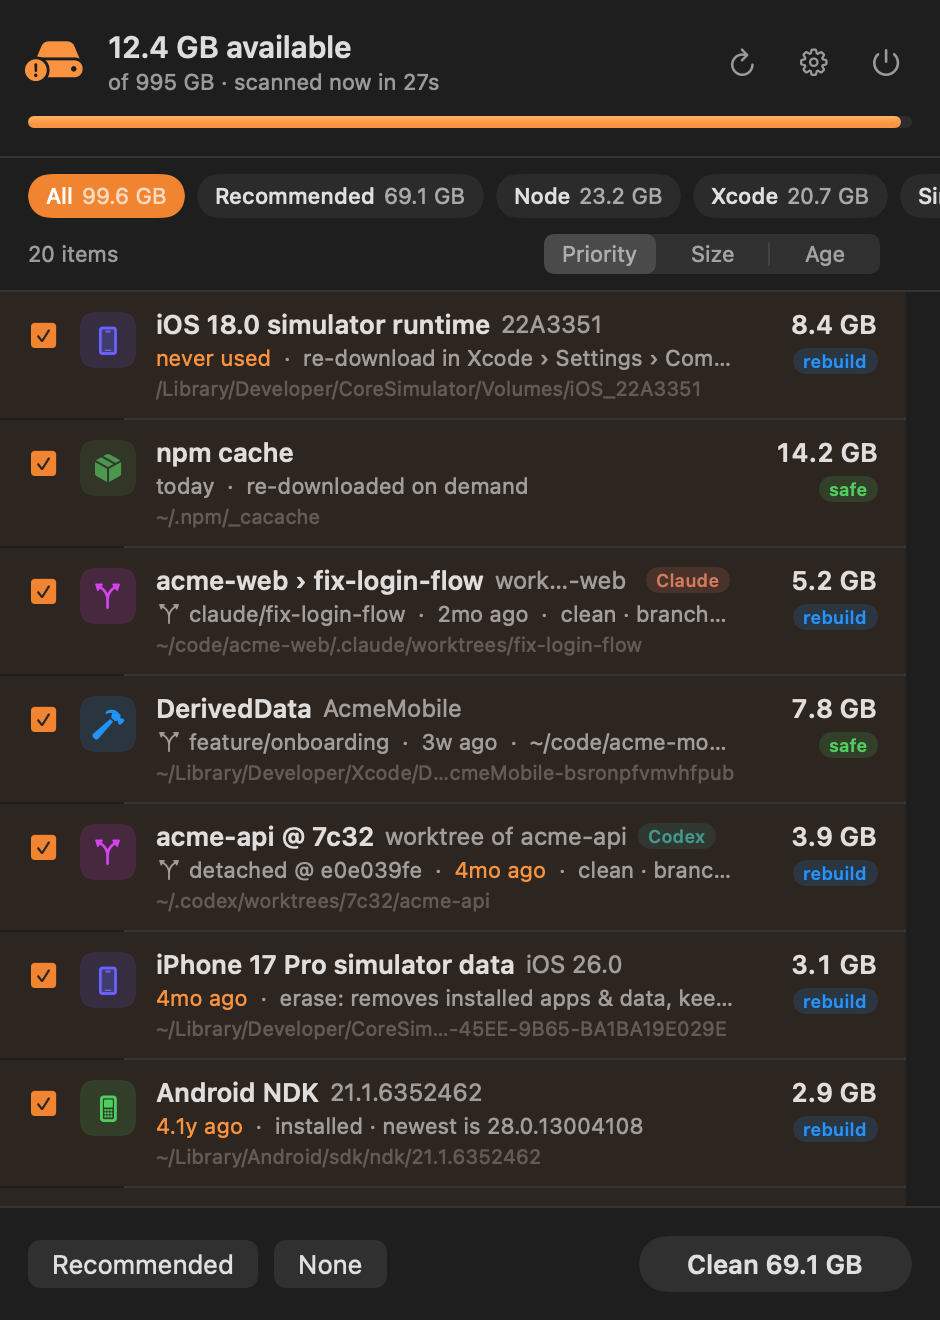
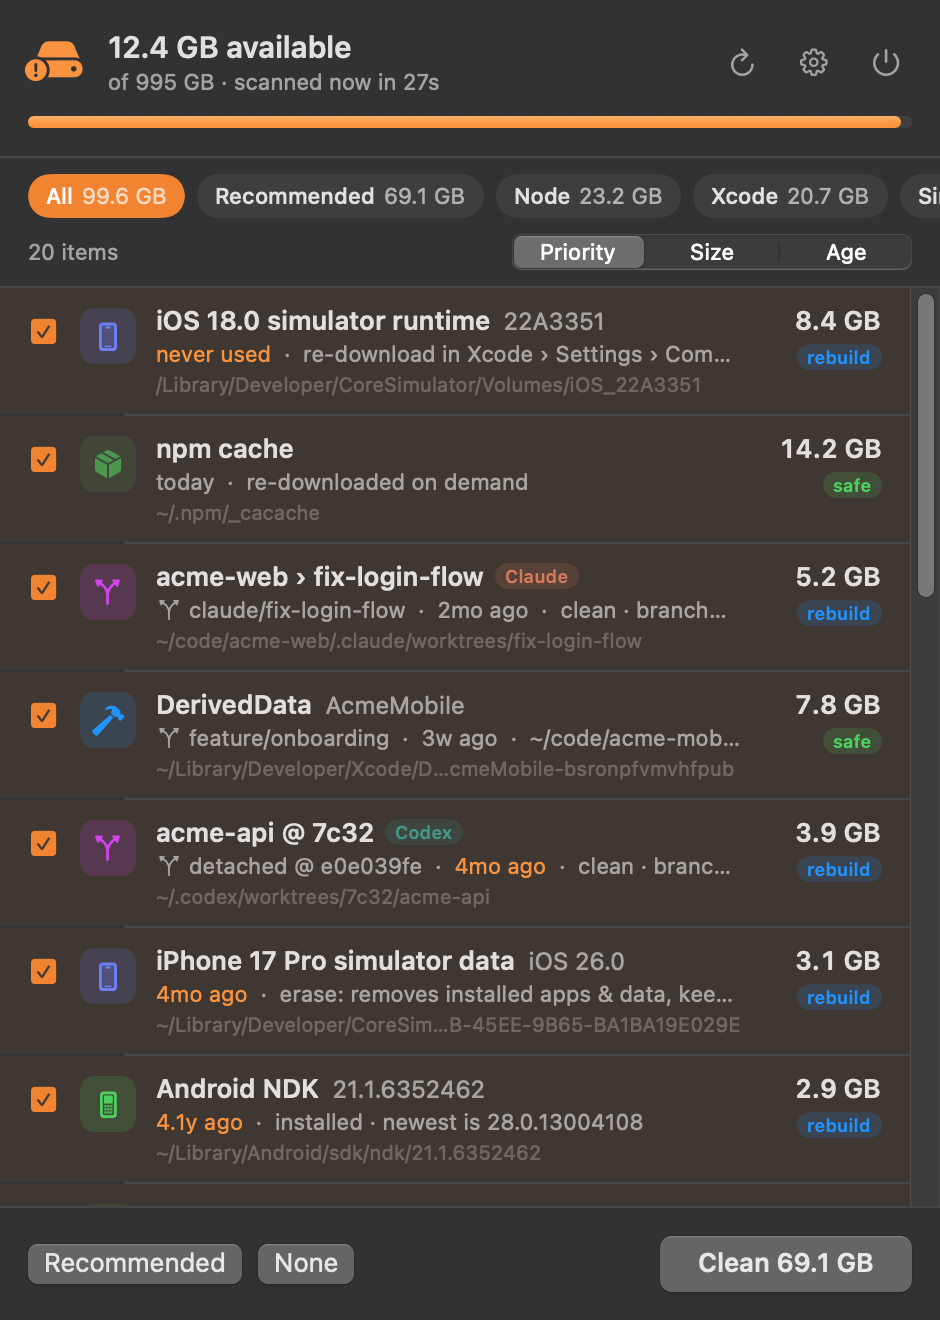
Show free space as text in the menu bar and fix squeezed badges
- The menu bar now shows only the free space, e.g. "117GB", without the
  drive icon. It turns orange when space is low and red when critical
  (as an attributed title, since contentTintColor doesn't tint a status
  button's text). The "show free space next to the icon" setting is gone.
- Badges never shrink: next to a long title a squeezed "Claude" badge
  wrapped one letter per line and blew up the row's height.
- Title and project label render as one text that truncates at the end;
  worktree rows drop the "worktree of <repo>" label their title repeats.
- Version 0.1.1

diff --git a/Sources/SpaceGuard/AppDelegate.swift b/Sources/SpaceGuard/AppDelegate.swift
@@ -28,8 +28,7 @@ final class AppDelegate: NSObject, NSApplicationDelegate, UNUserNotificationCent
             button.target = self
             button.action = #selector(togglePopover(_:))
             button.sendAction(on: [.leftMouseUp, .rightMouseUp])
-            button.imagePosition = .imageLeading
-            button.font = NSFont.monospacedDigitSystemFont(ofSize: 12, weight: .medium)
+            button.font = NSFont.monospacedDigitSystemFont(ofSize: NSFont.menuBarFont(ofSize: 0).pointSize, weight: .regular)
         }
 
         popover.behavior = .transient
@@ -38,7 +37,7 @@ final class AppDelegate: NSObject, NSApplicationDelegate, UNUserNotificationCent
         popover.contentViewController = NSHostingController(rootView: PanelView(store: store, settings: store.settings))
 
         store.$available
-            .combineLatest(store.settings.$showFreeInMenuBar, store.settings.$lowSpaceGB)
+            .combineLatest(store.settings.$lowSpaceGB)
             .receive(on: RunLoop.main)
             .sink { [weak self] _ in self?.updateButton() }
             .store(in: &bag)
@@ -109,17 +108,22 @@ final class AppDelegate: NSObject, NSApplicationDelegate, UNUserNotificationCent
         }
     }
 
+    /// The menu bar shows only the free space ("117GB"): orange when it's low, red when it's critical.
     private func updateButton() {
         guard let button = statusItem?.button else { return }
-        let level = store.level
-        let symbol = level == .ok ? "internaldrive" : "externaldrive.badge.exclamationmark"
-        let image = NSImage(systemSymbolName: symbol, accessibilityDescription: "SpaceGuard")
-            ?? NSImage(systemSymbolName: "internaldrive", accessibilityDescription: "SpaceGuard")
-        image?.isTemplate = true
-        button.image = image
-        button.title = store.settings.showFreeInMenuBar && store.total > 0 ? " " + Fmt.compact(store.available) : ""
-        button.contentTintColor = level == .critical ? .systemRed : level == .low ? .systemOrange : nil
+        let text = store.total > 0 ? Fmt.compact(store.available) : "SpaceGuard"
+        switch store.level {
+        case .ok:
+            button.title = text   // the menu bar's own text color, which follows light and dark menu bars
+        case .low, .critical:
+            // contentTintColor tints a status button's image but not its title, so color the text itself.
+            let color: NSColor = store.level == .critical ? .systemRed : .systemOrange
+            button.attributedTitle = NSAttributedString(string: text, attributes: [
+                .font: button.font ?? NSFont.menuBarFont(ofSize: 0), .foregroundColor: color,
+            ])
+        }
         button.toolTip = "SpaceGuard: \(Fmt.bytes(store.available)) available"
+        button.setAccessibilityLabel("SpaceGuard, \(Fmt.bytes(store.available)) available")
     }
 
     @objc private func togglePopover(_ sender: Any?) {

diff --git a/Sources/SpaceGuard/Views.swift b/Sources/SpaceGuard/Views.swift
@@ -397,10 +397,12 @@ struct Tag: View {
     var body: some View {
         Text(text)
             .font(.system(size: 9, weight: .semibold))
+            .lineLimit(1)
             .padding(.horizontal, 5)
             .padding(.vertical, 1)
             .background(Capsule().fill(color.opacity(0.16)))
             .foregroundStyle(color)
+            .fixedSize()   // never squeezed: next to a long title it used to wrap one letter per line
     }
 }
 
@@ -427,17 +429,8 @@ struct ItemRow: View {
             .padding(.top, 2)
             VStack(alignment: .leading, spacing: 2) {
                 HStack(spacing: 5) {
-                    Text(item.title)
-                        .font(.system(size: 13, weight: .semibold))
+                    titleLine
                         .lineLimit(1)
-                        .layoutPriority(1)
-                    if let project = item.project {
-                        Text(project)
-                            .font(.system(size: 12))
-                            .foregroundStyle(.secondary)
-                            .lineLimit(1)
-                            .truncationMode(.middle)
-                    }
                     if let agent = item.agent { Tag(text: agent.label, color: agent.tint) }
                     if item.inUse { Tag(text: "in use", color: .blue) }
                 }
@@ -466,6 +459,14 @@ struct ItemRow: View {
         .contentShape(Rectangle())
         .onTapGesture(perform: toggle)
         .onHover { hover = $0 }
+    }
+
+    /// Title and project as one text, so a long title truncates as a whole instead of crushing the project label.
+    private var titleLine: Text {
+        let title = Text(item.title).font(.system(size: 13, weight: .semibold))
+        // A worktree's title already names its repo; "worktree of <repo>" would only repeat it.
+        guard let project = item.project, item.category != .worktree else { return title }
+        return title + Text("  " + project).font(.system(size: 12)).foregroundColor(.secondary)
     }
 
     private var meta: Text {
@@ -504,8 +505,7 @@ struct SettingsView: View {
                 Toggle("Send a notification", isOn: $settings.notify)
                 Toggle("Scan automatically when space runs low", isOn: $settings.autoScanWhenLow)
             }
-            Section("Menu bar") {
-                Toggle("Show free space next to the icon", isOn: $settings.showFreeInMenuBar)
+            Section("General") {
                 Toggle("Launch at login", isOn: $launchAtLogin)
                     .onChange(of: launchAtLogin) { _, on in
                         do {

diff --git a/Sources/SpaceGuard/Store.swift b/Sources/SpaceGuard/Store.swift
@@ -59,7 +59,6 @@ final class Settings: ObservableObject {
     private let defaults = UserDefaults.standard
 
     @Published var lowSpaceGB: Double { didSet { defaults.set(lowSpaceGB, forKey: "lowSpaceGB") } }
-    @Published var showFreeInMenuBar: Bool { didSet { defaults.set(showFreeInMenuBar, forKey: "showFreeInMenuBar") } }
     @Published var minItemMB: Int { didSet { defaults.set(minItemMB, forKey: "minItemMB") } }
     @Published var autoScanWhenLow: Bool { didSet { defaults.set(autoScanWhenLow, forKey: "autoScanWhenLow") } }
     @Published var notify: Bool { didSet { defaults.set(notify, forKey: "notify") } }
@@ -67,9 +66,8 @@ final class Settings: ObservableObject {
     @Published var ignored: Set<String> { didSet { defaults.set(Array(ignored), forKey: "ignored") } }
 
     init() {
-        defaults.register(defaults: ["lowSpaceGB": 20.0, "showFreeInMenuBar": true, "minItemMB": 50, "autoScanWhenLow": true, "notify": true])
+        defaults.register(defaults: ["lowSpaceGB": 20.0, "minItemMB": 50, "autoScanWhenLow": true, "notify": true])
         lowSpaceGB = defaults.double(forKey: "lowSpaceGB")
-        showFreeInMenuBar = defaults.bool(forKey: "showFreeInMenuBar")
         minItemMB = defaults.integer(forKey: "minItemMB")
         autoScanWhenLow = defaults.bool(forKey: "autoScanWhenLow")
         notify = defaults.bool(forKey: "notify")

diff --git a/Sources/SpaceGuard/Model.swift b/Sources/SpaceGuard/Model.swift
@@ -188,12 +188,13 @@ enum Fmt {
         return "\(b) B"
     }
 
-    /// Menu bar text: "3.3G", "87G".
+    /// Menu bar text: "117GB", "9.5GB", "640MB", "1.2TB".
     static func compact(_ b: Int64) -> String {
-        let gb = Double(b) / 1e9
-        if gb >= 1000 { return String(format: "%.1fT", gb / 1000) }
-        if gb >= 10 { return String(format: "%.0fG", gb) }
-        return String(format: "%.1fG", gb)
+        let d = Double(b)
+        if d >= 1e12 { return String(format: "%.1fTB", d / 1e12) }
+        if d >= 1e10 { return String(format: "%.0fGB", d / 1e9) }
+        if d >= 1e9 { return String(format: "%.1fGB", d / 1e9) }
+        return String(format: "%.0fMB", d / 1e6)
     }
 
     static func age(_ item: CleanItem) -> String {

diff --git a/README.md b/README.md
@@ -27,9 +27,9 @@ how long it has sat untouched. The list is ranked so the big, stale, safe-to-del
 
 ## Features
 
-- **Watches free space from the menu bar.** The icon shows how much space is left and turns orange,
-  then red, as the disk fills. When space drops below your threshold, you get a notification saying
-  how much can be reclaimed.
+- **Watches free space from the menu bar.** The menu bar shows how much space is left, like `117GB`,
+  in orange, then red, as the disk fills. When space drops below your threshold, you get a
+  notification saying how much can be reclaimed.
 - **Knows where dev junk lives.** It covers 100+ cache locations and build-artifact types across
   Xcode, simulators, Android, Node, Python, Rust, Go, JVM, Ruby, Flutter, Homebrew, Docker, editors
   and AI tools, plus the build output inside your own projects.
@@ -65,8 +65,8 @@ how long it has sat untouched. The list is ranked so the big, stale, safe-to-del
 **[⬇ Download SpaceGuard.dmg](https://github.com/mkrn/spaceguard/releases/latest/download/SpaceGuard.dmg)**
 It runs on macOS 14 or later, on Apple silicon or Intel.
 
-Open the DMG, drag SpaceGuard into Applications and launch it. Its icon appears in the menu bar. The
-app is signed with a Developer ID and notarized by Apple, so it opens without Gatekeeper warnings.
+Open the DMG, drag SpaceGuard into Applications and launch it. Your free space, like `117GB`, appears
+in the menu bar; click it to open the panel. The app is signed with a Developer ID and notarized by Apple, so it opens without Gatekeeper warnings.
 To keep it running, turn on **Launch at login** in the gear menu.
 
 ### Build from source
